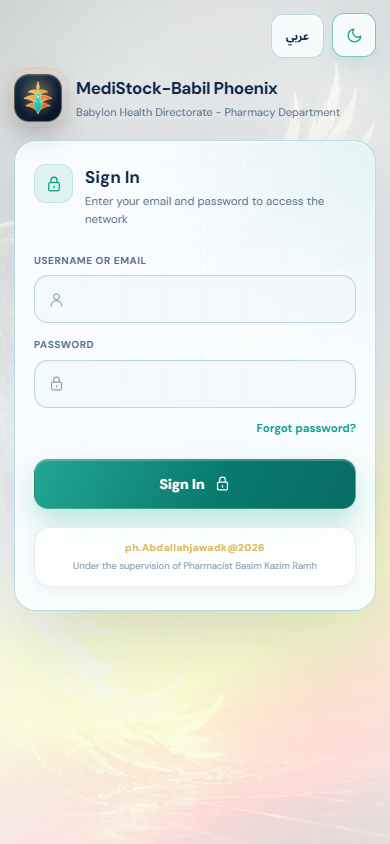
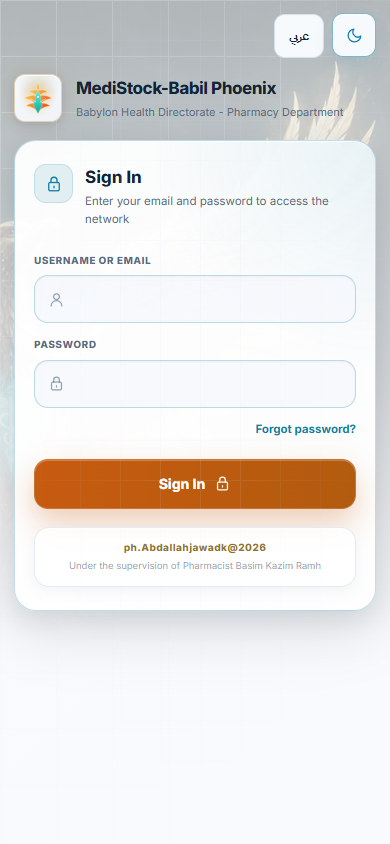
docs(design): Phase D visual evidence + QA harness scenes for capture
Adds three DEV-only visual-QA harness scenes (welcome, dashboard, twin) so the
post-auth Phase D surfaces can be captured WITHOUT a live session, and a
capture script (scripts/phoenix-capture-d.mjs) that drives them across
AR/EN × dark/light × desktop/mobile via URL-addressable params.

Evidence captured under docs/phoenix/visual-evidence/:
- login/ (8) — re-captured against the D1 image-forward hero
- welcome/ (8) — the exact approved Arabic credits card
- dashboard/ (8) — the new stock-health hero band (data widgets show honest
  read-only fixture-client states; no fabricated numbers)
- twin/ (10) — 3D WebGL view + the new 2D SVG map with the 3D/2D tabs and zoom

The twin scene is prop-driven fixtures; the dashboard scene runs the real
screen against the read-only fixture client. Harness stays gated on
import.meta.env.DEV && VITE_ENABLE_VISUAL_QA and tree-shaken from production —
qa-harness-production-safety (prod build, 0 markers) stays green.

diff --git a/src/features/qa/QaHarness.tsx b/src/features/qa/QaHarness.tsx
@@ -20,6 +20,9 @@ import { PhoenixLoadingState } from '@/shared/ui/PhoenixLoadingState';
 import { PhoenixEmptyState } from '@/shared/ui/PhoenixEmptyState';
 import { PhoenixErrorState } from '@/shared/ui/PhoenixErrorState';
 import { __installQaSupabaseClient } from '@/shared/supabase/client';
+import type { NetworkWarehouse, SupplyRoute } from '@/features/network/network.service';
+import type { DistributionPoint } from '@/shared/supabase/services/warehouses.service';
+import type { NodeAlert } from '@/features/network/NetworkTopologyStage';
 import { QaAppProvider } from './QaAppProvider';
 import { QA_HARNESS_MARKER } from './qaConfig';
 import { QA_PERSONAS, qaPersona, type QaPersonaId } from './qaFixtures';
@@ -30,9 +33,9 @@ import { createQaFixtureClient } from './qaFixtureClient';
 // is a no-op in a production build (see client.ts).
 __installQaSupabaseClient(createQaFixtureClient());
 
-type SceneId = 'shell' | 'states' | 'institutions';
+type SceneId = 'shell' | 'states' | 'institutions' | 'welcome' | 'dashboard' | 'twin';
 
-const SCENE_IDS: SceneId[] = ['shell', 'states', 'institutions'];
+const SCENE_IDS: SceneId[] = ['shell', 'states', 'institutions', 'welcome', 'dashboard', 'twin'];
 
 function readParams() {
   const q = new URLSearchParams(window.location.search);
@@ -49,6 +52,36 @@ function readParams() {
 const InstitutionScreen = lazy(() =>
   import('@/features/institutions/InstitutionScreen').then(m => ({ default: m.InstitutionScreen })),
 );
+const DashboardScreen = lazy(() =>
+  import('@/features/dashboard/DashboardScreen').then(m => ({ default: m.DashboardScreen })),
+);
+const NetworkTopologyStage = lazy(() =>
+  import('@/features/network/NetworkTopologyStage').then(m => ({ default: m.NetworkTopologyStage })),
+);
+const PhoenixWelcomeExperience = lazy(() =>
+  import('@/features/auth/PhoenixWelcomeExperience').then(m => ({ default: m.PhoenixWelcomeExperience })),
+);
+
+// Prop-driven fixtures for the Digital Twin scene (no service calls). Shapes
+// match the real warehouse/route/outlet/alert types so the twin renders exactly
+// as it does against live RLS-scoped data.
+const TWIN_WAREHOUSES: NetworkWarehouse[] = [
+  { id: 'c1', name: 'Central Store', name_ar: 'المخزن المركزي', warehouseKind: 'central', status: 'active', isMain: true, code: 'C-01', organizationId: 'org' },
+  { id: 'i1', name: 'Babil General', name_ar: 'مذخر بابل العام', warehouseKind: 'institution', status: 'active', isMain: false, code: 'I-01', organizationId: 'org' },
+  { id: 'i2', name: 'Hilla Teaching', name_ar: 'مذخر الحلة التعليمي', warehouseKind: 'institution', status: 'active', isMain: false, code: 'I-02', organizationId: 'org' },
+];
+const TWIN_ROUTES: SupplyRoute[] = [
+  { id: 'r1', sourceWarehouseId: 'c1', targetWarehouseId: 'i1', priority: 1, isActive: true, notes: null },
+  { id: 'r2', sourceWarehouseId: 'c1', targetWarehouseId: 'i2', priority: 1, isActive: true, notes: null },
+];
+const TWIN_OUTLETS: DistributionPoint[] = [
+  { id: 'o1', name: 'Pharmacy A', name_ar: 'صيدلية أ', status: 'active', warehouseId: 'i1', organizationId: 'org', pointType: 'pharmacy' },
+  { id: 'o2', name: 'Rescue Cart', name_ar: 'عربة إنعاش', status: 'active', warehouseId: 'i2', organizationId: 'org', pointType: 'rescue_cart' },
+];
+const TWIN_ALERTS = new Map<string, NodeAlert>([
+  ['i1', { severity: 'high', count: 3, topSignal: 'missing' }],
+  ['o2', { severity: 'medium', count: 1, topSignal: 'near_expiry' }],
+]);
 
 function StatesScene({ lang }: { lang: Lang }) {
   const ar = lang === 'ar';
@@ -87,15 +120,34 @@ export function QaHarness() {
           QA ONLY · {active.id} · {lang.toUpperCase()} · {theme}
         </div>
 
-        {scene === 'states' ? (
+        {scene === 'welcome' ? (
+          <Suspense fallback={<PhoenixLoadingState />}>
+            <PhoenixWelcomeExperience onComplete={() => { /* QA: inert */ }} />
+          </Suspense>
+        ) : scene === 'states' ? (
           <div style={{ minHeight: '100dvh', background: 'var(--bg)', padding: 'var(--sp-8) var(--sp-4)' }}>
             <StatesScene lang={lang} />
           </div>
         ) : (
-          <PhoenixAppShell currentScreen={scene === 'institutions' ? 11 : 12} onNavigate={() => { /* QA: inert */ }} onLogout={() => { /* QA: inert */ }}>
+          <PhoenixAppShell currentScreen={scene === 'institutions' ? 11 : scene === 'twin' ? 5 : 1} onNavigate={() => { /* QA: inert */ }} onLogout={() => { /* QA: inert */ }}>
             {scene === 'institutions' ? (
               <Suspense fallback={<PhoenixLoadingState />}>
                 <InstitutionScreen />
+              </Suspense>
+            ) : scene === 'dashboard' ? (
+              <Suspense fallback={<PhoenixLoadingState />}>
+                <DashboardScreen onNavigate={() => { /* QA: inert */ }} />
+              </Suspense>
+            ) : scene === 'twin' ? (
+              <Suspense fallback={<PhoenixLoadingState />}>
+                <NetworkTopologyStage
+                  lang={lang}
+                  warehouses={TWIN_WAREHOUSES}
+                  routes={TWIN_ROUTES}
+                  outlets={TWIN_OUTLETS}
+                  organizationName={lang === 'ar' ? 'دائرة صحة بابل · قسم الصيدلة' : 'Babil Health · Pharmacy Department'}
+                  alerts={TWIN_ALERTS}
+                />
               </Suspense>
             ) : (
               <div style={{ padding: 'var(--sp-4)' }}>
